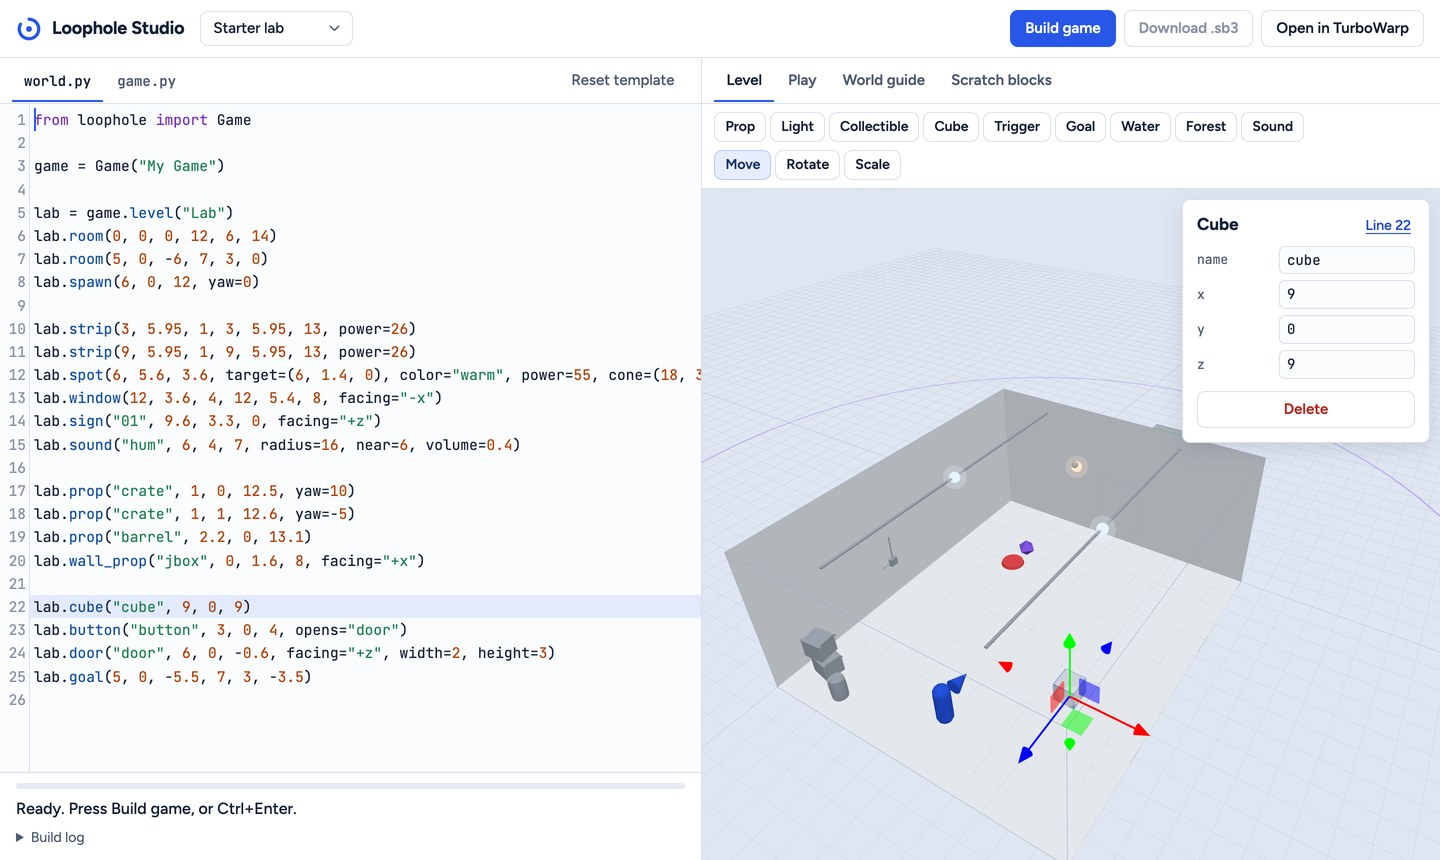
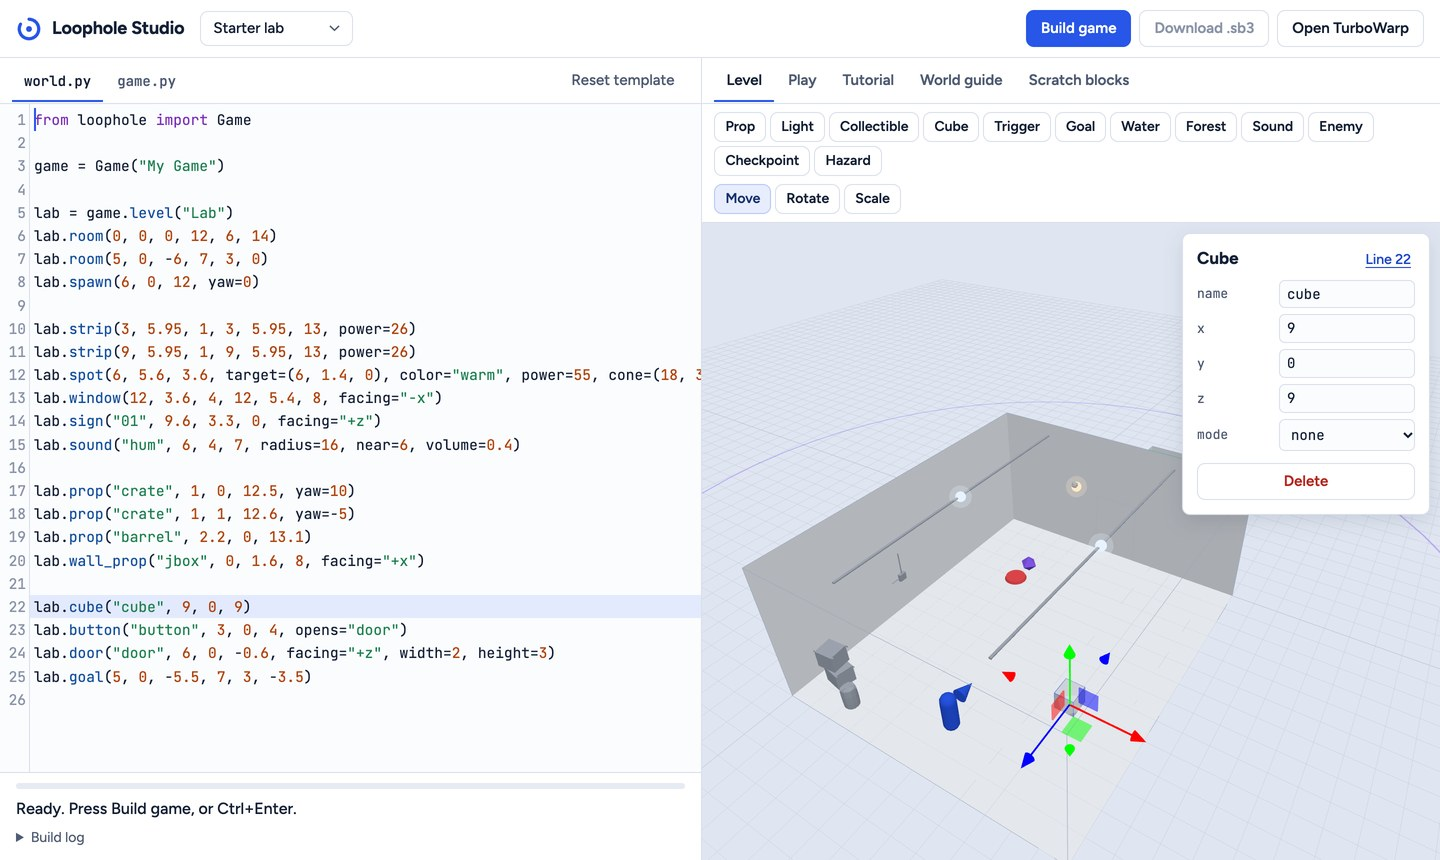
first-game tutorial, also as a tab in studio

diff --git a/studio/studio.js b/studio/studio.js
@@ -158,6 +158,11 @@
     try {
       const md = await (await fetch(path)).text();
       el.innerHTML = marked.parse(md);
+      for (const img of el.querySelectorAll('img[src]')) {
+        const s = img.getAttribute('src');
+        if (!/^https?:/.test(s)) img.src = new URL(s, new URL(path, location.href)).href;
+        img.loading = 'lazy';
+      }
       for (const a of el.querySelectorAll('a[href]')) {
         const h = a.getAttribute('href');
         if (h.startsWith('#')) continue;
@@ -172,8 +177,9 @@
 
   function showPane(p) {
     for (const b of document.querySelectorAll('.ptab')) b.setAttribute('aria-selected', String(b.dataset.pane === p));
-    for (const id of ['level', 'play', 'world', 'scratch']) $('pane-' + id).hidden = id !== p;
+    for (const id of ['level', 'play', 'tutorial', 'world', 'scratch']) $('pane-' + id).hidden = id !== p;
     for (const cb of listeners) cb('pane:' + p);
+    if (p === 'tutorial') loadDoc('tutorial', 'docs/tutorial.md');
     if (p === 'world') loadDoc('world', 'docs/world-api.md');
     if (p === 'scratch') loadDoc('scratch', 'docs/scratch-api.md');
   }

diff --git a/studio/index.html b/studio/index.html
@@ -46,6 +46,7 @@
     <div class="tabs" role="tablist">
       <button role="tab" class="ptab" data-pane="level" aria-selected="true">Level</button>
       <button role="tab" class="ptab" data-pane="play" aria-selected="false">Play</button>
+      <button role="tab" class="ptab" data-pane="tutorial" aria-selected="false">Tutorial</button>
       <button role="tab" class="ptab" data-pane="world" aria-selected="false">World guide</button>
       <button role="tab" class="ptab" data-pane="scratch" aria-selected="false">Scratch blocks</button>
     </div>
@@ -85,6 +86,7 @@
       <iframe id="player" src="play.html" title="Game player" allow="fullscreen; pointer-lock"></iframe>
       <p class="hint">Click the game to look around. WASD moves, space jumps, E picks things up. To add Scratch blocks, download the .sb3 and open it in TurboWarp with File, Load from your computer.</p>
     </div>
+    <article class="pane doc" id="pane-tutorial" hidden></article>
     <article class="pane doc" id="pane-world" hidden></article>
     <article class="pane doc" id="pane-scratch" hidden></article>
   </section>

diff --git a/studio/studio.css b/studio/studio.css
@@ -162,6 +162,7 @@ summary { cursor: pointer; }
 
 .doc { overflow: auto; padding: 8px 28px 40px; }
 .doc > * { max-width: 72ch; }
+.doc img { display: block; max-width: 100%; height: auto; border: 1px solid var(--line); border-radius: var(--radius); }
 .doc h1 { font-size: 30px; line-height: 1.2; letter-spacing: -0.02em; margin: 24px 0 12px; }
 .doc h2 { font-size: 22px; line-height: 1.25; margin: 34px 0 10px; }
 .doc h3 { font-size: 18px; margin: 26px 0 8px; }

diff --git a/docs/tutorial.md b/docs/tutorial.md
@@ -1,0 +1,76 @@
+# Your first game
+
+This walks you through making a small game in [Loophole Studio](https://q8j-dev.github.io/loophole-engine/): collect three apples while a rat chases you, then win. It takes about 15 minutes and you don't need to install anything.
+
+![Loophole Studio: world.py on the left, the 3D level on the right](img/studio.jpg)
+
+## 1. Open the starter lab
+
+Open Studio and pick **Starter lab** from the menu at the top. The left side is `world.py`, the file that describes your level. The right side shows the same level in 3D.
+
+Drag in the 3D view to look around, right-drag to slide, and scroll to zoom. Click anything to select it: its line in `world.py` lights up and its settings appear in the panel.
+
+## 2. Play it
+
+Press **Build game**. The first build takes about half a minute while Studio downloads what it needs, and later builds are quicker. The game plays in the **Play** tab.
+
+Click the game to start. Move with WASD, look with the mouse, jump with space and pick up the cube with E.
+
+## 3. Add three apples
+
+Go back to the **Level** tab and press **Collectible**, then click the floor. An apple appears, and a new line appears at the bottom of `world.py`:
+
+```python
+lab.pickup("apple1", "apple", 4, 0.4, 10, scale=3)
+```
+
+Add two more in different places. To move one, select it and drag the arrows. To get rid of one, select it and press **Delete**.
+
+## 4. Add a rat that chases you
+
+Press **Enemy** and click the floor at the far end of the room. The orange ring shows how far the rat can see. When you walk into that ring and the rat can see you, it starts following you.
+
+Select the rat to see its settings. **mode** says what it does: `follow` chases you, `wander` strolls around, `flee` runs away and `stop` stands still. **speed** is how fast it moves.
+
+## 5. Add a checkpoint
+
+Press **Checkpoint** and click near the middle of the room. When you walk through it, you come back to life there instead of at the start.
+
+## 6. Build and play again
+
+Press **Build game** and try your level. If something is in the wrong place, fix it in the 3D view or in `world.py` and build again.
+
+## 7. Make it a real game in TurboWarp
+
+Press **Download .sb3**, open [turbowarp.org/editor](https://turbowarp.org/editor) and choose **File > Load from your computer**.
+
+Click the **Helpers** sprite. It already has ready-made blocks and example scripts, each with a note above it. The coin example counts every apple you collect. Drag an **if** block onto the end of that script so that the third apple wins the game:
+
+```
+when I receive [collect]
+change [coins] by (1)
+set status (join [Coins: ] (coins))
+if <(coins) = (3)> then
+  show message [You win!]
+  play sound [success]
+```
+
+The rat example in the Helpers sprite needs an object called `enemy`, but yours is called `rat1`, so add a script for when it catches you:
+
+```
+when I receive [touch rat1]
+show message [Caught! Try again.] for (2) seconds
+go to level (1)
+```
+
+![The Helpers sprite in TurboWarp, with a note above each example script](img/helpers.jpg)
+
+## 8. Share it
+
+Choose **File > Save to your computer** to keep your game. To share it with friends, choose **File > Package project** in TurboWarp. It turns your game into a single web page or an app that anyone can open.
+
+## What next
+
+- More things to put in a level: [World guide](world-api.md).
+- Every variable, list and block your scripts can use: [Scratch guide](scratch-api.md).
+- Want a forest, a lake or snow? Pick **The Long Walk** in Studio to see how it's made.

diff --git a/README.md b/README.md
@@ -16,7 +16,7 @@ A 3D game engine for Scratch and TurboWarp. You describe a level in a short Pyth
 | Autumn Woods | A forest to walk through, made with two `forest()` calls | [Play in TurboWarp](https://turbowarp.org/?project_url=https://q8j-dev.github.io/loophole-engine/games/Autumn-Woods.sb3) | [Autumn-Woods.sb3](https://github.com/q8j-dev/loophole-engine/releases/latest/download/Autumn-Woods.sb3) (18 MB) |
 | The Long Walk | Autumn woods, a lake to swim across, a snowy pass and a warm cabin | [Play in TurboWarp](https://turbowarp.org/?project_url=https://q8j-dev.github.io/loophole-engine/games/The-Long-Walk.sb3) | [The-Long-Walk.sb3](https://github.com/q8j-dev/loophole-engine/releases/latest/download/The-Long-Walk.sb3) (31 MB) |
 
-**Make a game in your browser.** [Loophole Studio](https://q8j-dev.github.io/loophole-engine/) runs the real build in the page. Pick a template and change the level in 3D or in code: the Level tab shows the level, lets you place props, lights, collectibles, zones, water, forests and sounds from the toolbar, and move, turn or resize anything with the handles. Every change is written into `world.py` as a normal line of code, and typing in `world.py` updates the 3D view. Press Build game and it plays beside the code. Download the `.sb3` to add Scratch blocks in TurboWarp. The first build downloads about 40 MB; later builds start in a few seconds.
+**Make a game in your browser.** [Loophole Studio](https://q8j-dev.github.io/loophole-engine/) runs the real build in the page. Pick a template and change the level in 3D or in code: the Level tab shows the level, lets you place props, lights, collectibles, enemies, checkpoints, zones, water, forests and sounds from the toolbar, and move, turn or resize anything with the handles. Every change is written into `world.py` as a normal line of code, and typing in `world.py` updates the 3D view. Press Build game and it plays beside the code. Download the `.sb3` to add Scratch blocks in TurboWarp. The first build downloads about 40 MB; later builds start in a few seconds. New to it? The [tutorial](docs/tutorial.md) makes a small chase game in about 15 minutes.
 
 ![Loophole Studio: world.py on the left, the 3D level editor on the right with the cube selected](docs/img/studio.jpg)
 
@@ -134,6 +134,7 @@ The source of every game in the table above is in [examples](examples), and the 
 
 ## Documentation
 
+- [docs/tutorial.md](docs/tutorial.md): make your first game in Studio, step by step. It is also the Tutorial tab in Studio.
 - [docs/world-api.md](docs/world-api.md): every `Game` and `Level` method for building levels.
 - [docs/scratch-api.md](docs/scratch-api.md): every variable, list and broadcast your Scratch scripts can use.
 - [docs/renderer.md](docs/renderer.md): how the renderer works, from the bake to the final frame.
